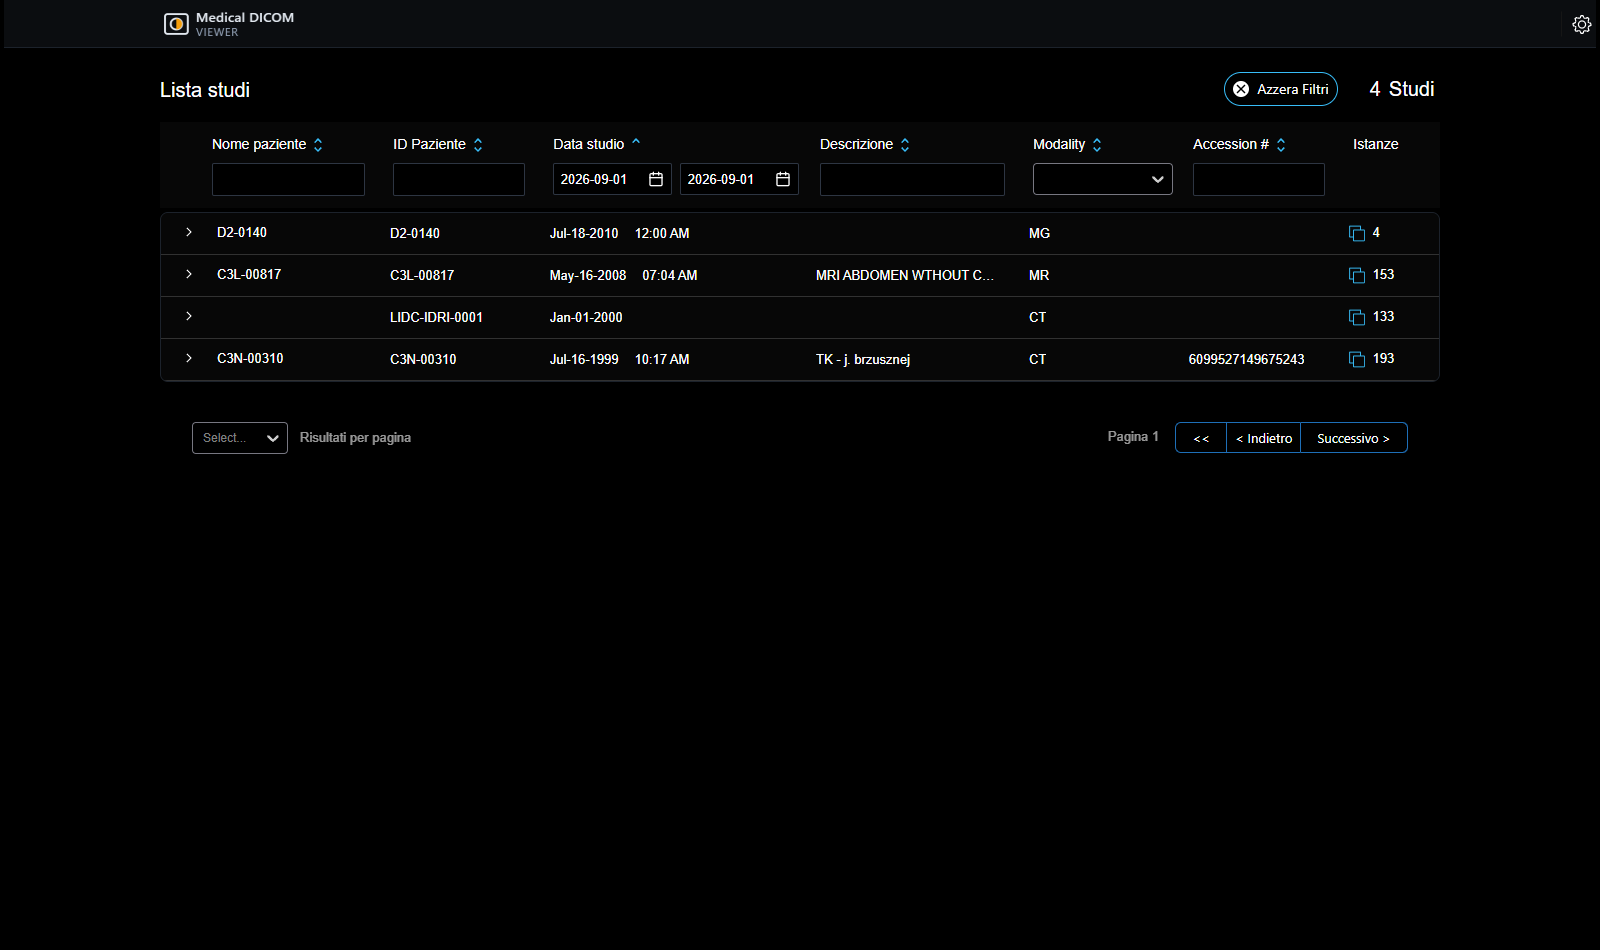
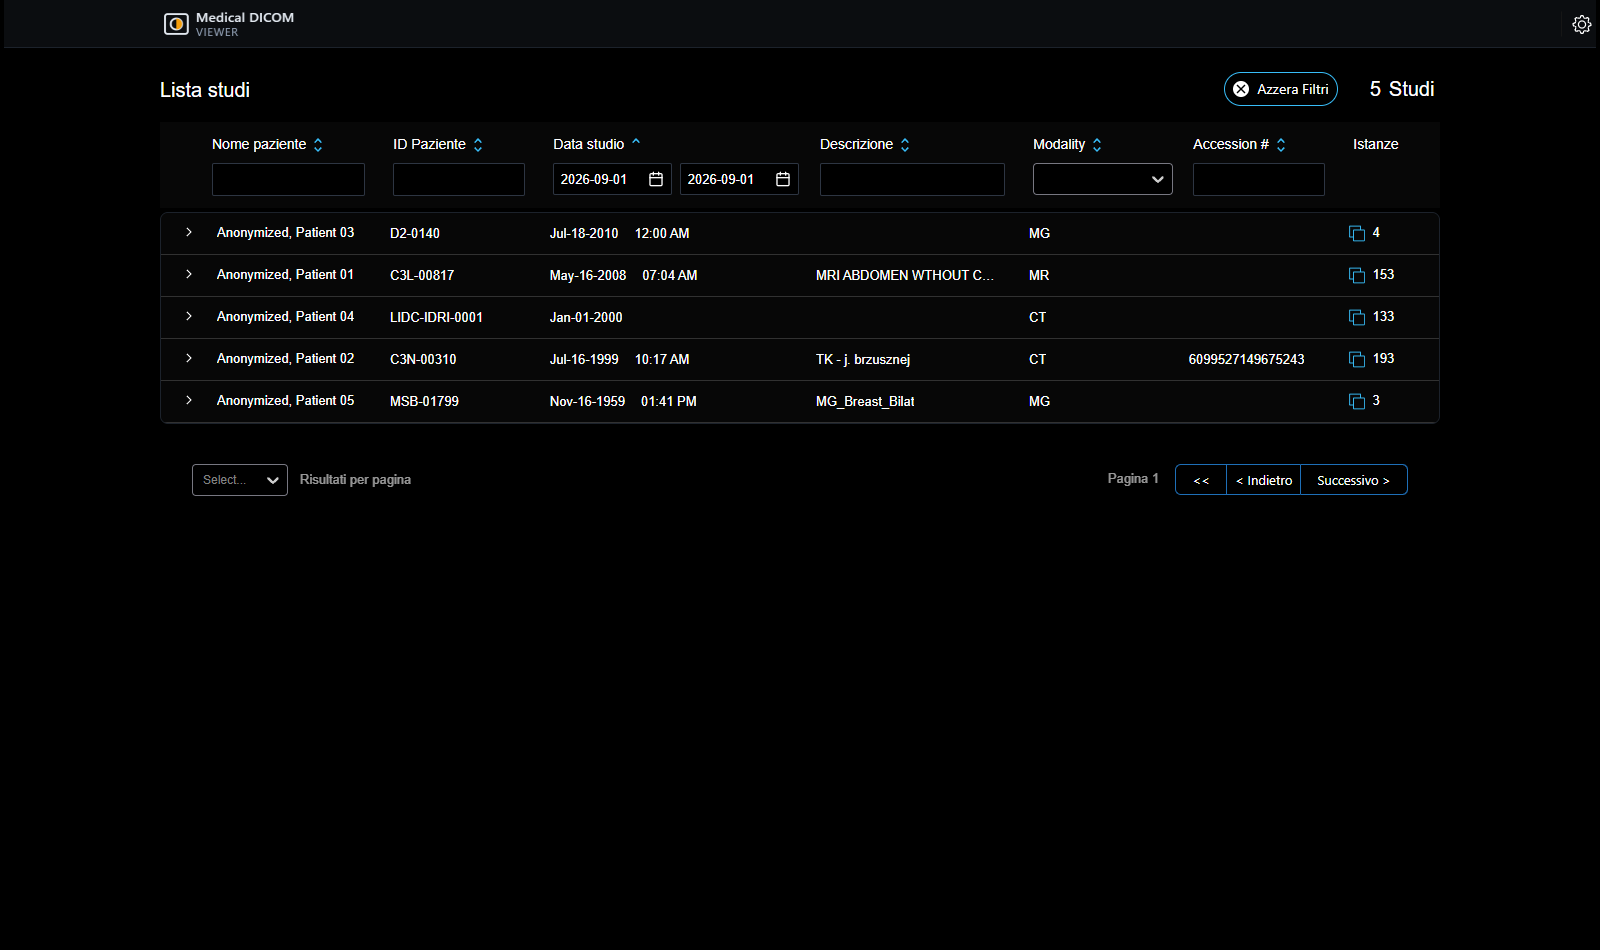
Draw a mammogram the way its file asks, and give patients names
A mammogram opened washed out: the air around the breast at 29% grey instead of
black, and the overlay reporting a window of 589 that appears nowhere in a file
which declares 256. The file asks for a sigmoid VOI. The renderer uses the
sigmoid to work out the range it will draw - the span between the 1% and 99%
points of the curve, which is where 589 comes from - and then draws that range
linearly. Declaring only the VOI functions that are actually applied puts it
back to the 256 the file asks for. Measured rather than judged by eye: the
background went from 29% of white to 0%.

Reset on that study used to leave the viewport black until you scrolled away and
came back. It does not any more. Whether that was the same cause I cannot prove,
so it is not claimed.

A second mammogram, from CMB-BRCA, stores each view as its own series rather
than as frames of one - which is how most archives arrange a screening study,
and a layout nothing here was testing. It is sixteen bits with pixel spacing,
where the CMMD study is eight bits with none: between them they break most of
what a viewer built on CT quietly assumes.

Patients are shown as Anonymized, Patient 01 and so on. The identifiers the
collections publish are kept exactly as they are - they are what makes an image
traceable back to its archive, and what the licence attribution refers to - but
a column of catalogue numbers does not read as a person whose identity was
[…]

diff --git a/platform/core/src/classes/MetadataProvider.ts b/platform/core/src/classes/MetadataProvider.ts
@@ -555,10 +555,32 @@ class MetadataProvider {
           }
         }
 
+        // Una funzione VOI non lineare si dichiara solo se il renderer la
+        // applica davvero.
+        //
+        // Cornerstone accetta SIGMOID, e con essa calcola l'intervallo come il
+        // tratto fra l'1% e il 99% della curva — su una mammografia con WC 128 e
+        // WW 256 diventa [-166, 422] — ma poi disegna quell'intervallo in modo
+        // LINEARE. Il risultato e' misurabile: l'aria, che nel file vale 0,
+        // finisce al 29% del bianco invece che al 12% che darebbe la sigmoide
+        // vera. L'immagine e' slavata, lo sfondo grigio, e la barra in basso
+        // riporta "W 589", una larghezza che nel file non compare da nessuna
+        // parte.
+        //
+        // Dichiarando solo cio' che viene applicato, l'intervallo torna a essere
+        // quello che il file chiede — 0..255, che il file stesso descrive come
+        // "Full width of 8 bit data" — e l'immagine viene resa come la intendeva
+        // chi l'ha prodotta.
+        const APPLICATE = ['LINEAR', 'LINEAR_EXACT'];
+        const funzioneApplicata =
+          typeof VOILUTFunction === 'string' && APPLICATE.includes(VOILUTFunction.toUpperCase())
+            ? VOILUTFunction
+            : undefined;
+
         metadata = {
           windowCenter: wcOut,
           windowWidth: wwOut,
-          voiLUTFunction: VOILUTFunction,
+          ...(funzioneApplicata ? { voiLUTFunction: funzioneApplicata } : {}),
         };
 
         // [MDV-DEBUG-ADC] log VOI_LUT per serie multiframe ADC (una volta per serie+frame)

diff --git a/platform/ui/src/components/LoadingIndicatorProgress/LoadingIndicatorProgress.tsx b/platform/ui/src/components/LoadingIndicatorProgress/LoadingIndicatorProgress.tsx
@@ -115,10 +115,12 @@ function LoadingIndicatorProgress({ className, textBlock, progress }) {
         <span></span>
       </div>
 
-      {/* Numero di versione fisso in basso alla finestra. */}
+      {/* Versione e autore, in basso alla finestra. Chi guarda una schermata
+          di caricamento la guarda per intero: e il posto dove chiedersi di chi
+          e questo programma. */}
       {version && (
         <div className="fixed bottom-3 left-0 right-0 text-center text-[11px] tracking-wide text-white/35">
-          v{version}
+          v{version} · Sviluppato da Riccardo Sapuppo
         </div>
       )}
     </div>

diff --git a/extensions/default/src/customizations/aboutModalCustomization.tsx b/extensions/default/src/customizations/aboutModalCustomization.tsx
@@ -32,6 +32,10 @@ function AboutModalDefault() {
           value={commitHash}
         /> */}
         <AboutModal.DetailItem
+          label="Sviluppato da"
+          value="Riccardo Sapuppo"
+        />
+        <AboutModal.DetailItem
           label="Basato su"
           value={`OHIF Viewer ${baseFork}`}
         />

diff --git a/README.md b/README.md
@@ -89,6 +89,17 @@ npm run check:controls     # presses every control this fork adds, one at a time
 `check:smoke` is also where the pictures in this README come from, so they are
 always the current build rather than something taken by hand months ago.
 
+**A VOI function that is declared but not applied.** A mammogram opened washed
+out — the air around the breast at 29% grey instead of black — and the overlay
+reported a window of 589 that appears nowhere in the file, which declares 256.
+The file asks for a **sigmoid** VOI, and the renderer takes the sigmoid to work
+out the range it will draw and then draws that range **linearly**. The number
+589 is the span between the 1% and 99% points of a sigmoid curve, presented as
+if it were a window width. Declaring only the VOI functions that are actually
+applied puts it back to the 256 the file asks for: black background, full
+contrast, and a readout that matches the data. Measured, not judged by eye —
+the background went from 29% to 0%.
+
 ## Running it
 
 The viewer reads from an archive over DICOMweb. The demonstration ships one, and
@@ -104,20 +115,21 @@ yarn dev                      # the viewer, on http://localhost:3000
 
 ## The studies
 
-Four real, de-identified clinical studies from
+Five real, de-identified clinical studies from
 [The Cancer Imaging Archive](https://www.cancerimagingarchive.net/). They are a
 sample chosen to exercise the viewer, not the range of what it opens — nothing
 in the viewer decides by modality. Nothing is committed here: a script fetches
 them, and keeps the licence file the archive ships beside the images.
 
-| Study | Collection | Images |
-| --- | --- | --- |
-| Chest CT, lung nodule screening | LIDC-IDRI | 133 |
-| Abdominal CT, multiphase | CPTAC-CCRCC | 193 |
-| Renal MR, five sequences | CPTAC-CCRCC | 153 |
-| Screening mammogram, four views | CMMD | 4 |
+| Study | Collection | Series | Images |
+| --- | --- | --- | --- |
+| Chest CT, lung nodule screening | LIDC-IDRI | 1 | 133 |
+| Abdominal CT, multiphase | CPTAC-CCRCC | 3 | 193 |
+| Renal MR, five sequences | CPTAC-CCRCC | 5 | 153 |
+| Screening mammogram, four views | CMMD | 1 | 4 |
+| Bilateral mammogram, three named series | CMB-BRCA | 3 | 3 |
 
-Three collections for four studies — two of them come from CPTAC-CCRCC, and a
+Five studies from four collections — two of them come from CPTAC-CCRCC, and a
 licence belongs to a collection rather than to a study:
 
 | Collection | Licence | DOI |
@@ -125,12 +137,15 @@ licence belongs to a collection rather than to a study:
 | LIDC-IDRI | CC BY 3.0 | `10.7937/K9/TCIA.2015.LO9QL9SX` |
 | CPTAC-CCRCC | CC BY 4.0 | `10.7937/k9/tcia.2018.oblamn27` |
 | CMMD | CC BY 4.0 | `10.7937/tcia.eqde-4b16` |
+| CMB-BRCA | CC BY 4.0 | `10.7937/dx22-8j71` |
 
-The mammogram earns its place by being unlike the other three: eight bits
-rather than sixteen, no rescale to Hounsfield units, no slice geometry to sort
-by, and a 2294 by 1914 image that the viewport has to fit rather than fill
-with. Every one of those is a way a viewer built and tested on CT quietly
-stops being right.
+The two mammograms are here because they break assumptions the CT and MR
+studies never test, and they break different ones. The CMMD study is eight bits
+rather than sixteen, has no rescale to Hounsfield units, no slice geometry, no
+pixel spacing, and declares a **sigmoid** VOI — it found a real defect, below.
+The CMB-BRCA study stores each view as its own series rather than as frames of
+one, which is how most archives arrange a screening study and the layout a
+viewer has to be right about.
 
 The licence a collection is distributed under is taken from the file inside the
 download rather than from the web page, which lists several because it covers
@@ -138,6 +153,18 @@ several kinds of data. The DOI is the one thing that cannot come from the
 download: it is on the collection page, and it is cited above so the data can
 be found again.
 
+### Names, and what was left alone
+
+The identifiers these collections publish — LIDC-IDRI-0001, C3N-00310,
+MSB-01799 — are what makes an image traceable back to the archive it came from,
+and the attribution above refers to them. They are kept exactly as published.
+
+What they are not is a name. In a worklist the name column is the first thing
+read, and a column of catalogue numbers does not say "a person whose identity
+was removed" — it says the software failed to fill the field in. So each
+patient is shown as *Anonymized, Patient 01* and so on, substituted on the way
+into the archive and never on disk: the downloaded files stay byte for byte
+what the collection published.
 ## What this is not
 
 **Not a medical device, and not for diagnosis.** It reads published research
